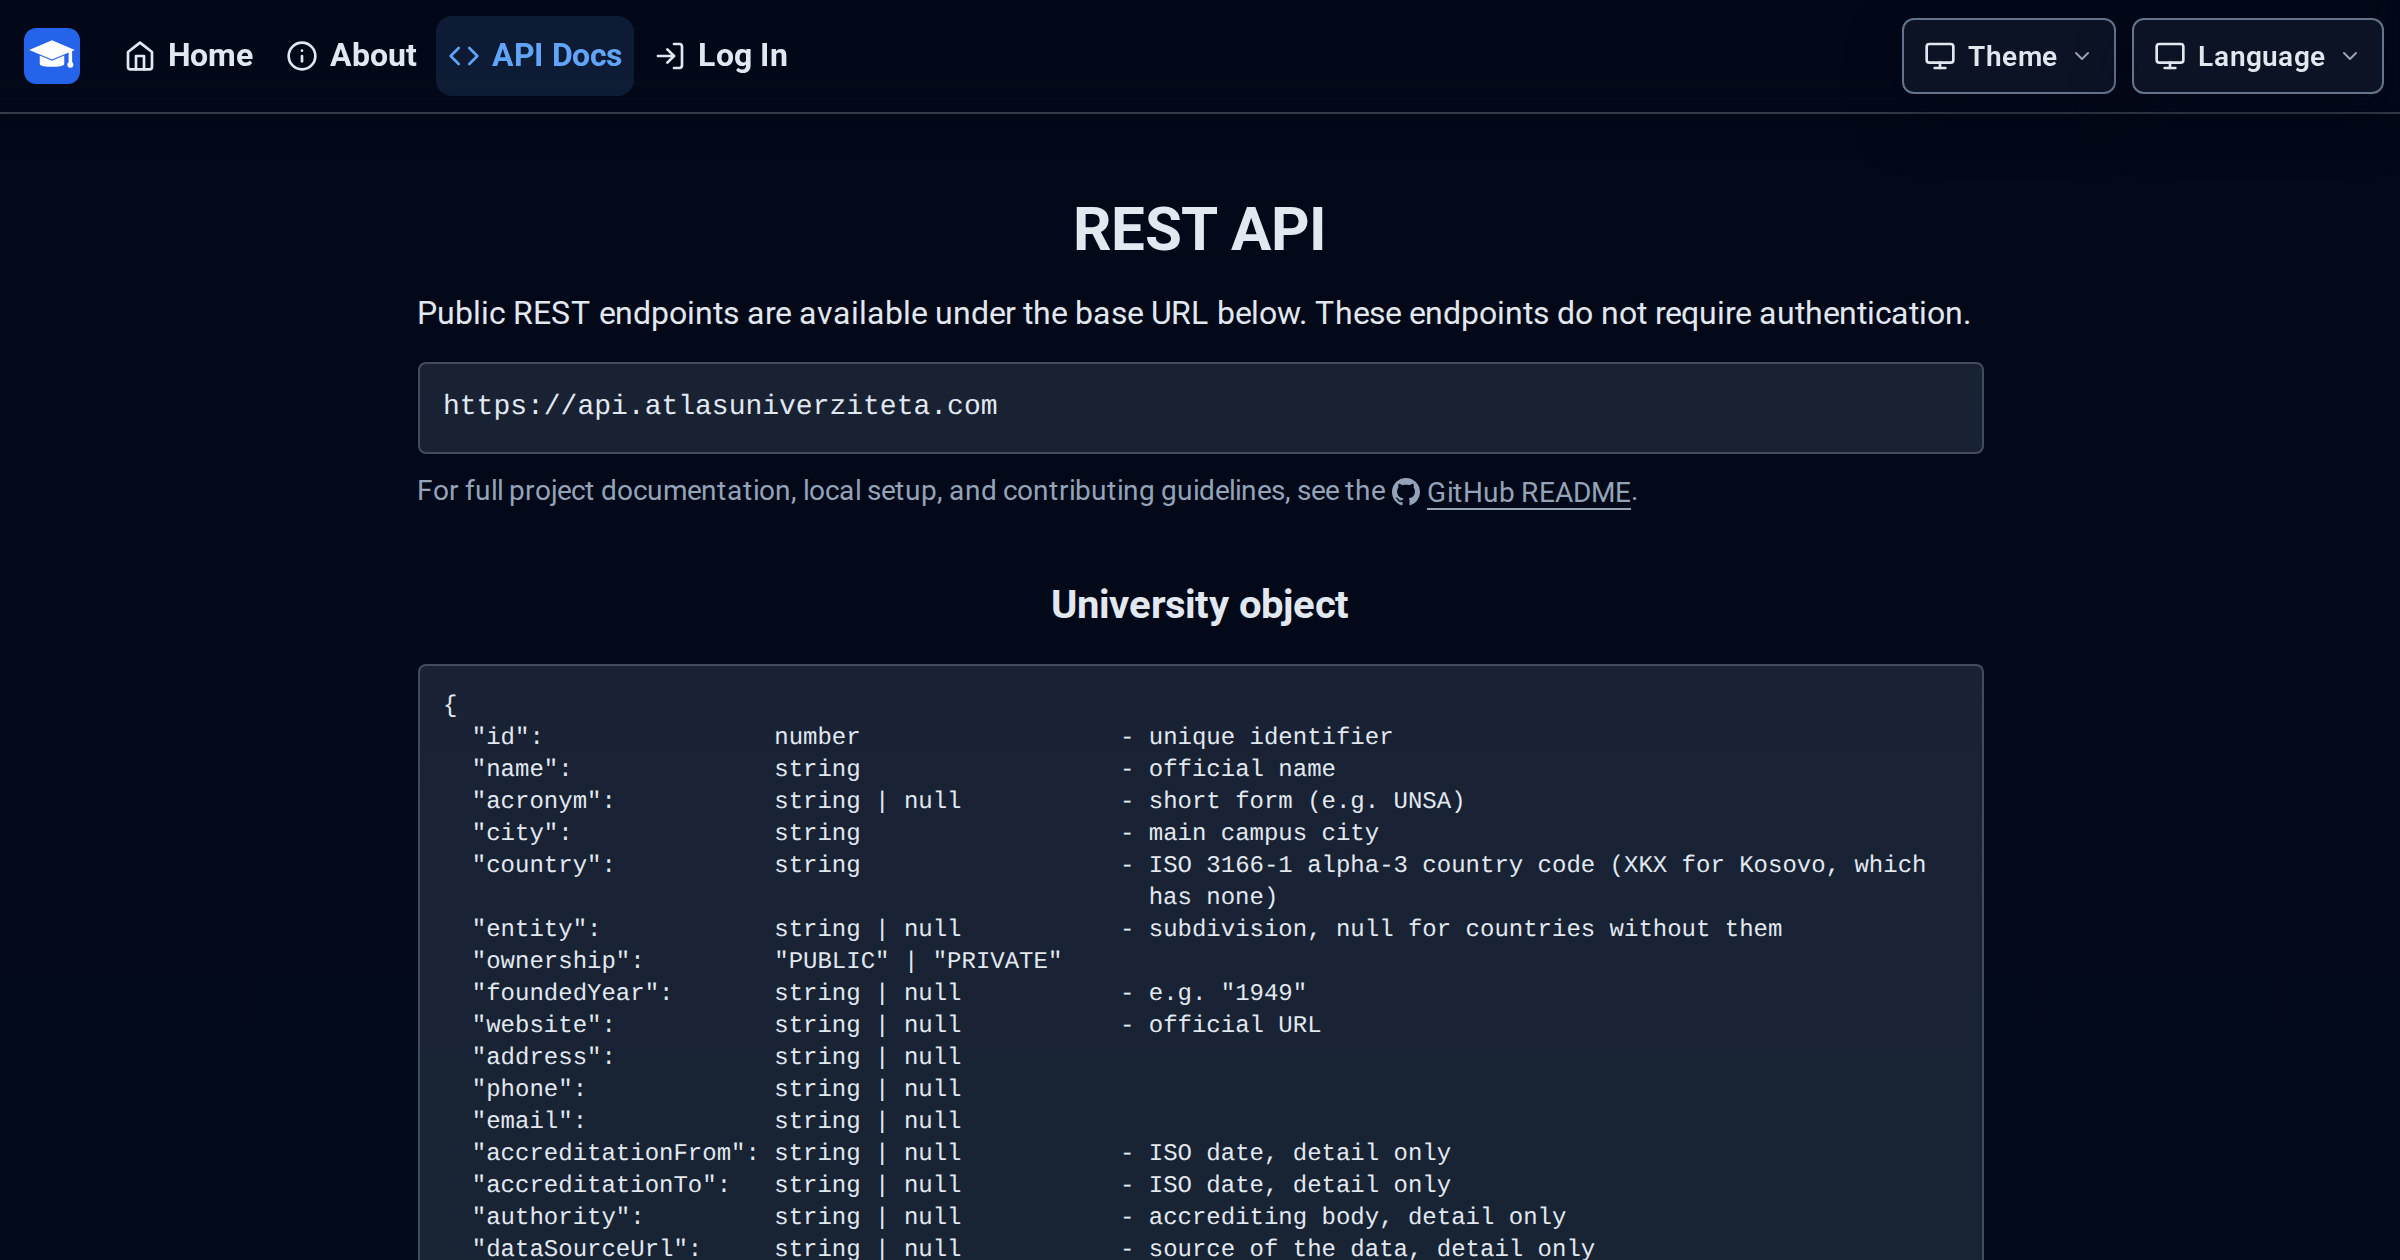
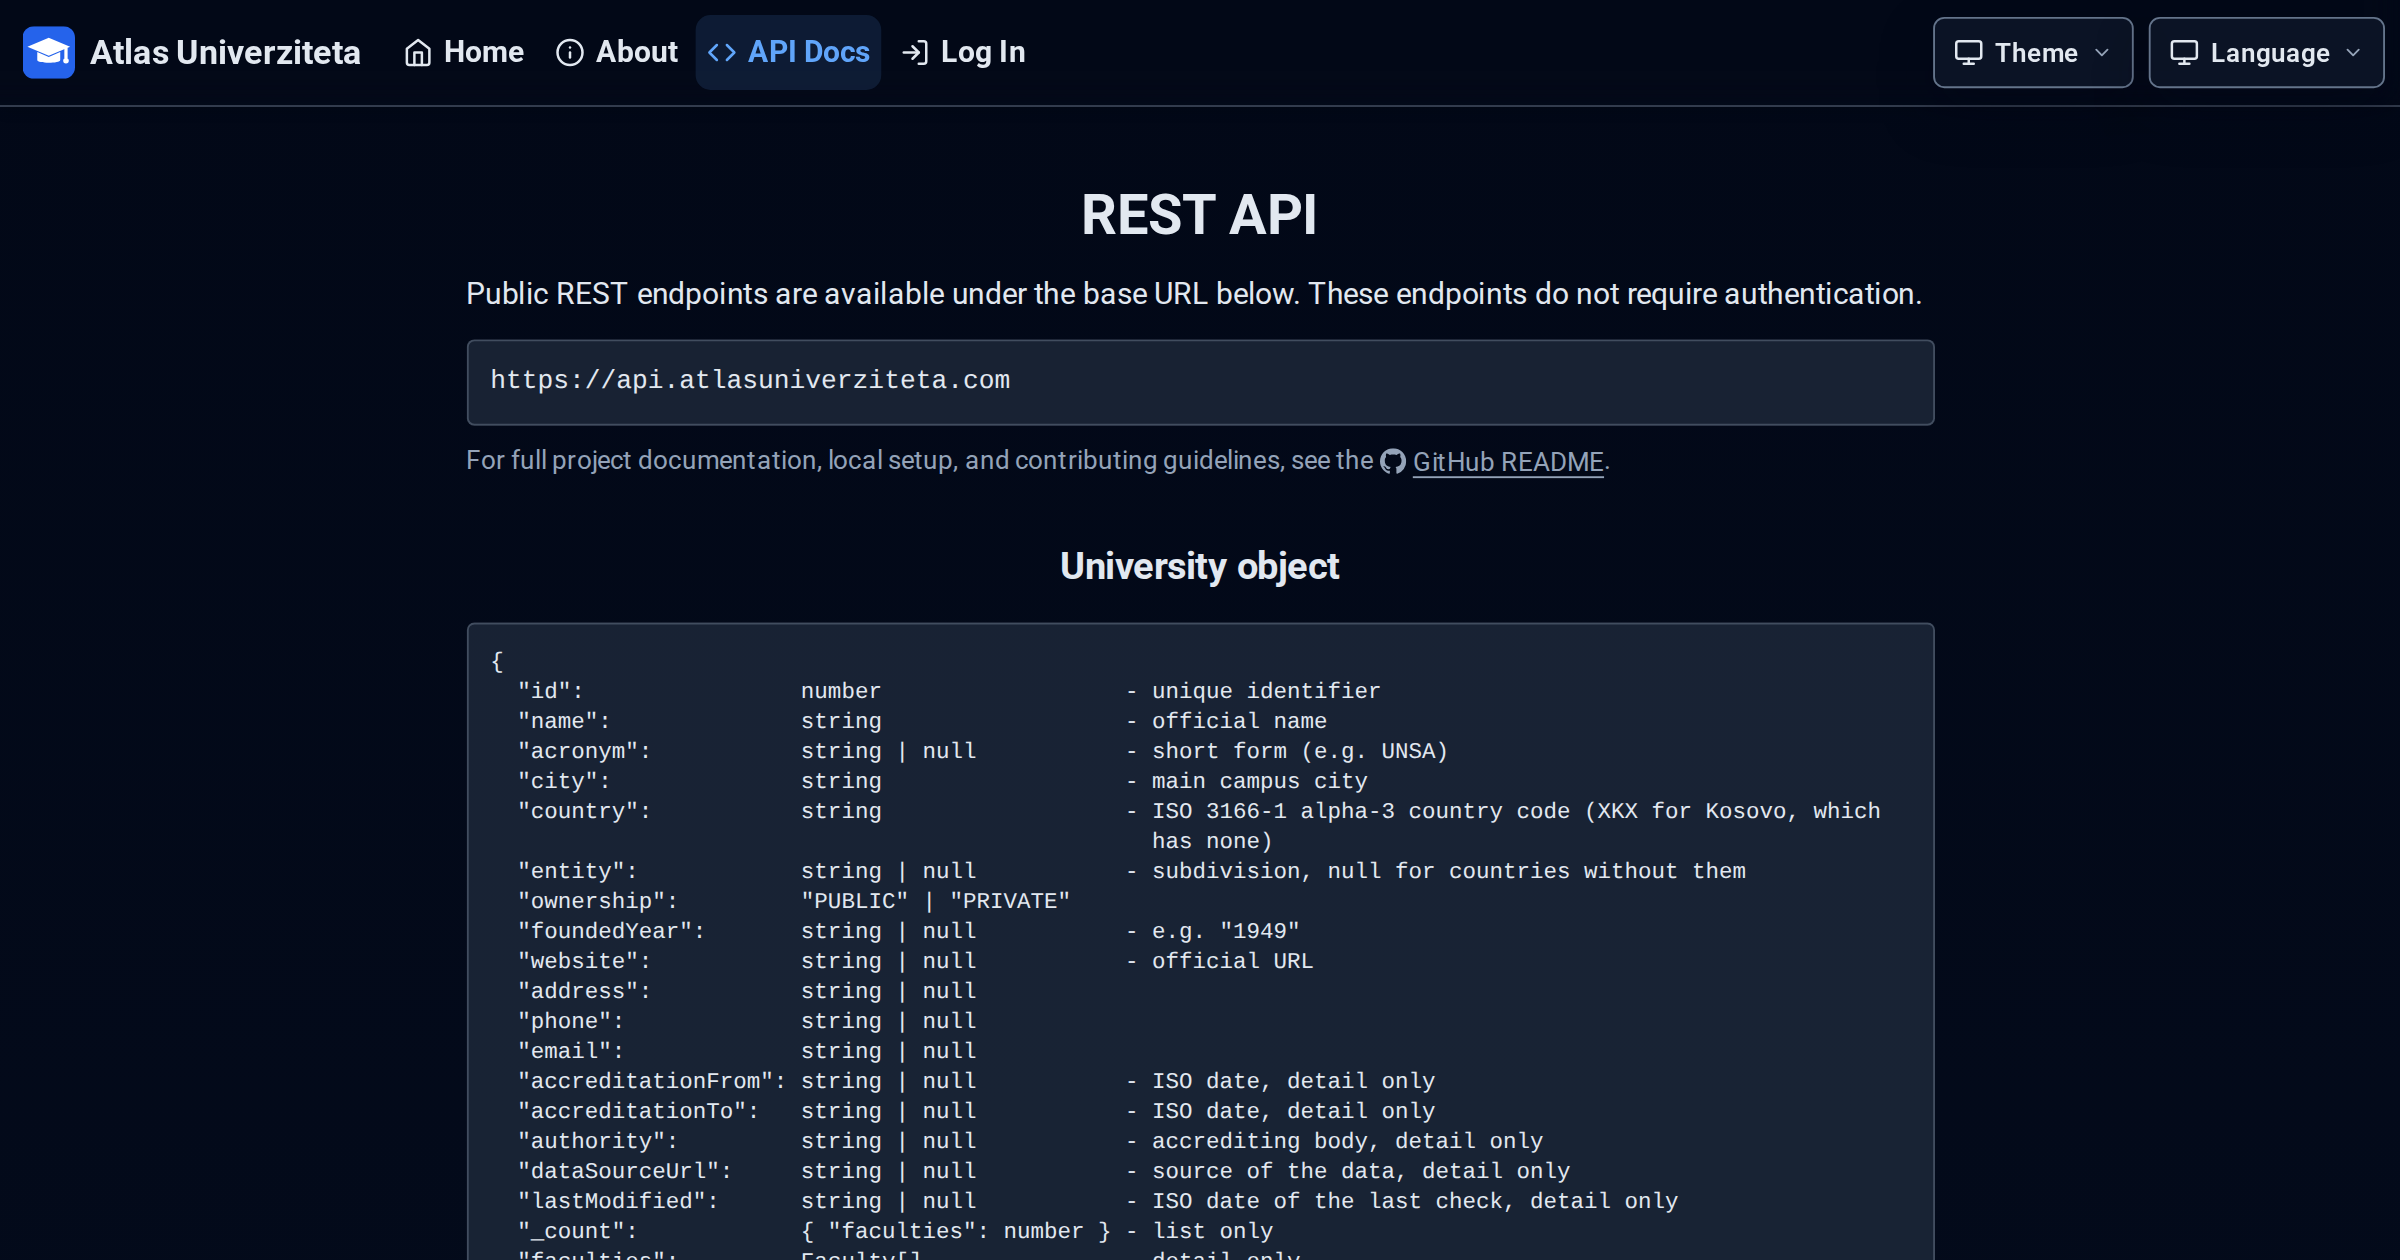
chore: recapture OG images at the width where the navbar shows its name

Changed region(s): [[0.1562, 0.4333, 0.8438, 1.0], [0.1562, 0.1548, 0.8438, 0.4024], [0.0, 0.0, 1.0, 0.0929]]

diff --git a/e2e/capture-og-images.ts b/e2e/capture-og-images.ts
@@ -12,8 +12,13 @@ const OUT_DIR = join(
   "og-images",
 );
 
-const WIDTH = 1200;
-const HEIGHT = 630;
+const OG_WIDTH = 1200;
+const OG_HEIGHT = 630;
+// Tailwind's xl breakpoint, the narrowest width where the navbar shows the
+// site name; the scale still saves each file at twice the share size
+const VIEWPORT_WIDTH = 1280;
+const VIEWPORT_HEIGHT = (VIEWPORT_WIDTH * OG_HEIGHT) / OG_WIDTH;
+const SCALE = (2 * OG_WIDTH) / VIEWPORT_WIDTH;
 
 const PAGES: { path: string; name: string }[] = [
   { path: "/", name: "home" },
@@ -41,8 +46,8 @@ async function main() {
   const browser = await chromium.launch();
 
   const contextOptions = {
-    viewport: { width: WIDTH, height: HEIGHT },
-    deviceScaleFactor: 2,
+    viewport: { width: VIEWPORT_WIDTH, height: VIEWPORT_HEIGHT },
+    deviceScaleFactor: SCALE,
     colorScheme: "dark" as const,
   };
 

diff --git a/docs/DEPLOYMENT.md b/docs/DEPLOYMENT.md
@@ -96,9 +96,9 @@ The webapp is an SPA, and social crawlers (Discord, Facebook, X) do not run Java
 
 Two stages:
 
-1. **Static routes** (`/about`, `/api-docs`, `/login`, `/signup`): titles and descriptions come from `webapp/src/locales/en.json`; each route can have its own share image in `webapp/public/images/og-images/` (1200x630, captured at 2x as 2400x1260 files), falling back to `og-image-home.png` while missing. The home page `/` is not pre-rendered - it is `index.html` itself, so its title, description, and `og-image-home.png` are written directly in `webapp/index.html`, and the text there must match `title.app` and `meta.home` in `en.json`.
+1. **Static routes** (`/about`, `/api-docs`, `/login`, `/signup`): titles and descriptions come from `webapp/src/locales/en.json`; each route can have its own share image in `webapp/public/images/og-images/` (1200x630, saved at twice that as 2400x1260 files), falling back to `og-image-home.png` while missing. The home page `/` is not pre-rendered - it is `index.html` itself, so its title, description, and `og-image-home.png` are written directly in `webapp/index.html`, and the text there must match `title.app` and `meta.home` in `en.json`.
 2. **Per-entity pages**: the script fetches all universities and faculties from the API and writes a page per `/universities/:id` and `/faculties/:id`, and appends them to `sitemap.xml`. This stage needs an **absolute** API URL at build time - `VITE_API_URL` is an absolute URL in production and is used directly. If the API is unreachable, the stage logs a warning and is skipped - the deploy never fails because of it.
 
 Share metadata is a deploy-time snapshot: renamed or newly added entities get correct previews on the next deploy.
 
-To refresh the share images after a UI change, run `npm run capture-og` in `e2e/`. It screenshots `/`, `/about`, `/api-docs`, `/login`, and `/signup` in English and Serbian, in the dark theme, into `webapp/public/images/og-images/`. It captures the live site by default; to capture changes that are not deployed yet, run the app locally (`npm run dev:all`) and pass its URL: `npm run capture-og -- http://localhost:5173`.
+To refresh the share images after a UI change, run `npm run capture-og` in `e2e/`. It screenshots `/`, `/about`, `/api-docs`, `/login`, and `/signup` in English and Serbian, in the dark theme, into `webapp/public/images/og-images/`. The page is laid out 1280px wide, the narrowest width where the navbar shows the site name, and scaled to the share size. It captures the live site by default; to capture changes that are not deployed yet, run the app locally (`npm run dev:all`) and pass its URL: `npm run capture-og -- http://localhost:5173`.
